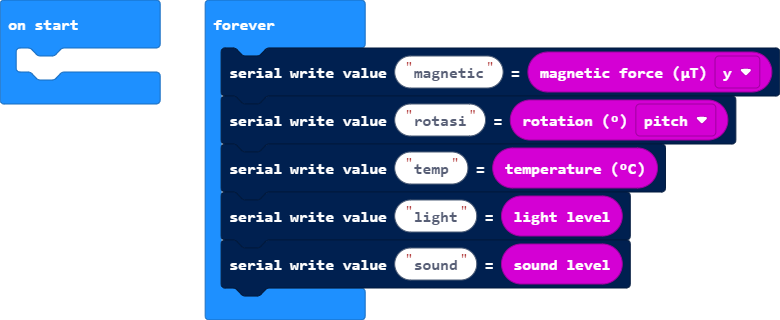
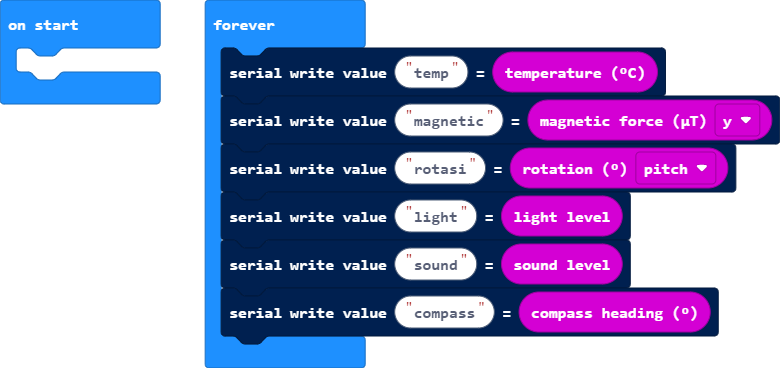
Update main.blocks, main.ts

diff --git a/main.ts b/main.ts
@@ -1,7 +1,8 @@
 basic.forever(function () {
+    serial.writeValue("temp", input.temperature())
     serial.writeValue("magnetic", input.magneticForce(Dimension.Y))
     serial.writeValue("rotasi", input.rotation(Rotation.Pitch))
-    serial.writeValue("temp", input.temperature())
     serial.writeValue("light", input.lightLevel())
     serial.writeValue("sound", input.soundLevel())
+    serial.writeValue("compass", input.compassHeading())
 })
